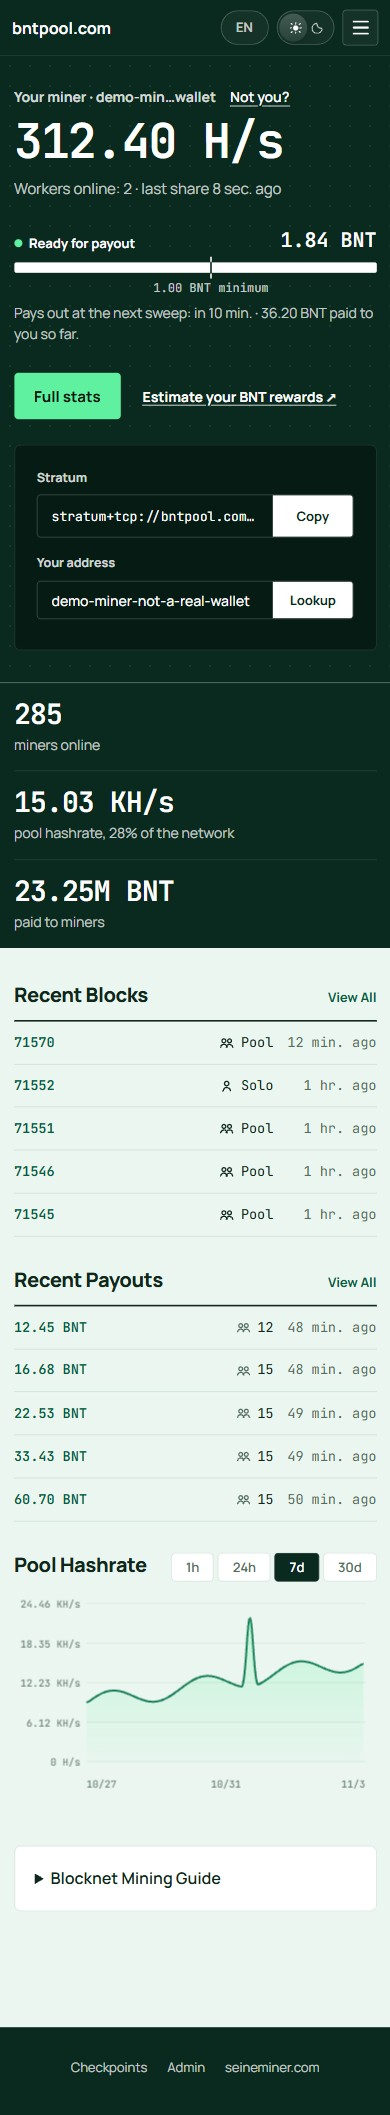
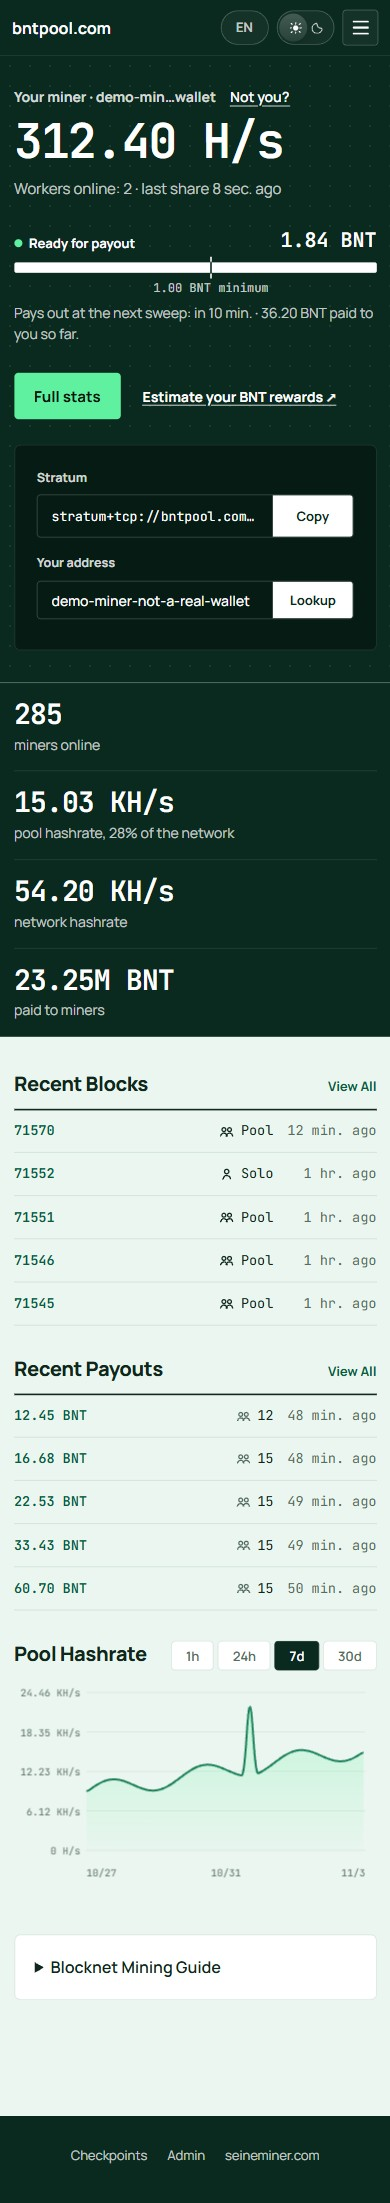
Refresh front page showcase captures for the network hashrate and Seine in Action
Claude-Session: https://claude.ai/code/session_01Aa42KkNJVVz4noECWaXovL

diff --git a/frontend/showcases/front-page/captures.html b/frontend/showcases/front-page/captures.html
@@ -1,4 +1,4 @@
-<!doctype html><html lang="en"><head><meta charset="utf-8"><meta name="viewport" content="width=device-width,initial-scale=1"><title>Front page showcase captures</title><style>body{font:16px system-ui;background:#f6f8f2;color:#173b32;margin:24px auto;max-width:1120px;padding:0 20px}figure{margin:24px 0}img{max-width:100%;height:auto;border:1px solid #dce3dc;border-radius:6px}code{overflow-wrap:anywhere}</style></head><body><h1>Front page and site style captures</h1><p>The real App with synthetic data throughout; nothing reaches a real pool. Source: blocknet-pool branch front-page-redesign (Mint palette, lifted sheet, centred tables and Quick Start cards, Status page removed). Captured 2026-11-03 at 1280 px and 390 px.</p>
+<!doctype html><html lang="en"><head><meta charset="utf-8"><meta name="viewport" content="width=device-width,initial-scale=1"><title>Front page showcase captures</title><style>body{font:16px system-ui;background:#f6f8f2;color:#173b32;margin:24px auto;max-width:1120px;padding:0 20px}figure{margin:24px 0}img{max-width:100%;height:auto;border:1px solid #dce3dc;border-radius:6px}code{overflow-wrap:anywhere}</style></head><body><h1>Front page and site style captures</h1><p>The real App with synthetic data throughout; nothing reaches a real pool. Source: blocknet-pool branch front-page-redesign (Mint palette, lifted sheet, centred tables and Quick Start cards, network hashrate in the band, Seine in Action from seine's renderer, Status page removed). Captured 2026-11-03 at 1280 px and 390 px.</p>
 <figure><figcaption>First visit · <code>first-desktop.jpg</code></figcaption><img src="captures/first-desktop.jpg" alt="First visit" loading="lazy"></figure>
 <figure><figcaption>First visit, phone · <code>first-mobile.jpg</code></figcaption><img src="captures/first-mobile.jpg" alt="First visit, phone" loading="lazy"></figure>
 <figure><figcaption>First visit, dark · <code>first-desktop-dark.jpg</code></figcaption><img src="captures/first-desktop-dark.jpg" alt="First visit, dark" loading="lazy"></figure>

diff --git a/frontend/showcases/front-page/README.md b/frontend/showcases/front-page/README.md
@@ -8,7 +8,8 @@ The real App, front page and Luck page run against synthetic API responses; noth
 pool, explorer or analytics endpoint. States:
 
 - `first`: no saved lookup. The deep green hero leads with the pool fee, the Stratum address and a
-  miner lookup, followed by the number band, Quick Start, recent blocks and payouts, the hashrate
+  miner lookup, followed by the number band (miners, pool hashrate, network hashrate, paid; two by two
+  under 1100 px, stacked on phones), Quick Start, recent blocks and payouts, the hashrate
   chart and the mining guide.
 - `below`, `ready`, `queued`, `paid`: a saved lookup turns the hero into the visitor's miner, with
   hashrate, workers, last share and the next payout. Below the minimum the bar fills toward it; over
@@ -22,7 +23,8 @@ pool, explorer or analytics endpoint. States:
 - `luck`: the Luck page, which now carries the Current Round card the old dashboard showed.
 - `stats`: My Stats in the site-wide style.
 - `blocks`: Blocks, where effort and status badges share one width per column.
-- `start`: Get Started, with one row per quick start step and its action at the end.
+- `start`: Get Started, with one row per quick start step and its action at the end, and Seine in
+  Action drawn as text from seine's own renderer (setup prompts and the mining dashboard).
 - `payouts`: Payouts, with the public data table layout.
 - `checkpoints`: Checkpoints, with a synthetic checkpoint file.
 
